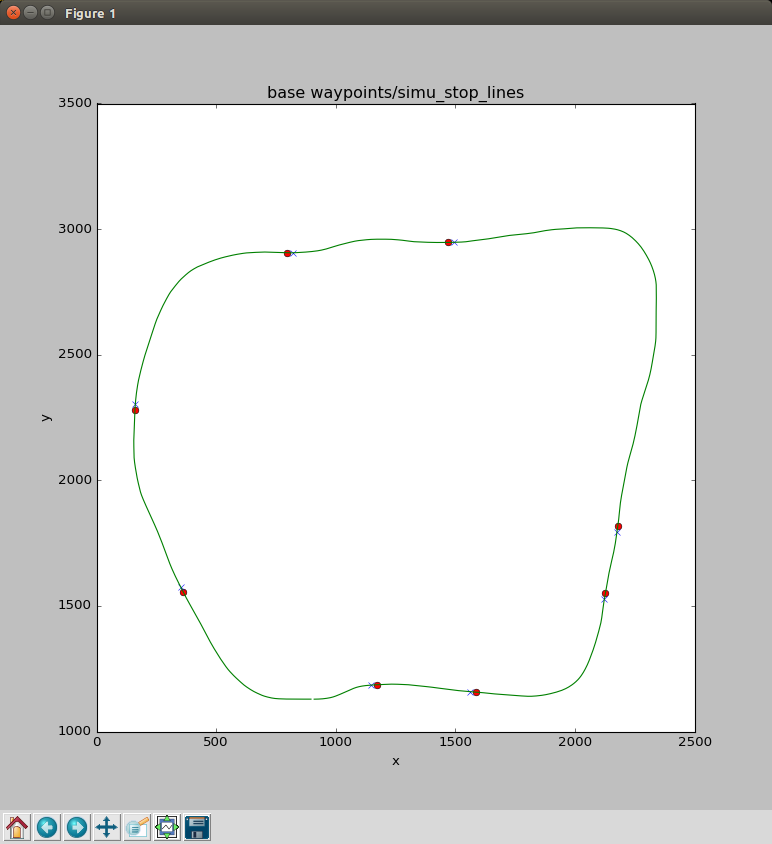
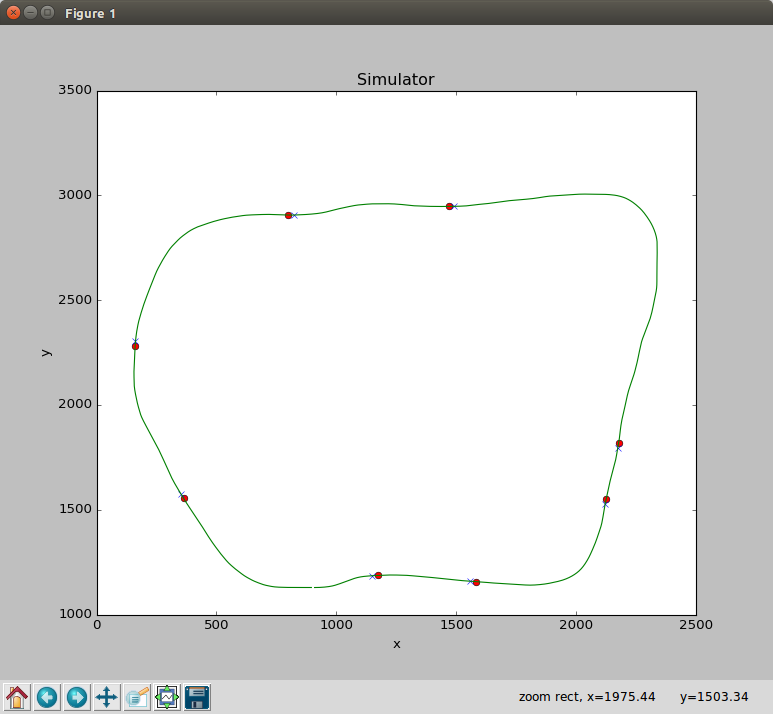
modified site waypoints show / enable roslog(DEBUG)

diff --git a/data/test_waypoints_show.py b/data/test_waypoints_show.py
@@ -37,7 +37,9 @@ simu_stop_lines=np.array([
     [351.84, 1574.65]])
 
 site_stop_lines=np.array([
-    [20.991, 22.837]])
+    #[20.991, 22.837]
+    [8.0, 16.2]
+    ])
     
 
 CSV_HEADER = ['x', 'y', 'z', 'yaw']
@@ -73,7 +75,7 @@ def ShowSimulatorDatas(path):
         tl_y = simu_traffic_lights[:,1]
         stop_x = simu_stop_lines[:,0]
         stop_y = simu_stop_lines[:,1]
-        plt.axes().set(xlabel='x', ylabel='y', title='base waypoints/simu_stop_lines')
+        plt.axes().set(xlabel='x', ylabel='y', title='Simulator')
         plt.plot(tl_x, tl_y, 'o', color='red')
         plt.plot(stop_x, stop_y, 'x', color='blue')
         plt.plot(waypointsX, waypointsY, color='green')
@@ -93,9 +95,9 @@ def ShowSiteDatas(path):
         #tl_y = simu_traffic_lights[:,1]
         stop_x = site_stop_lines[:,0]
         stop_y = site_stop_lines[:,1]
-        plt.axes().set(xlabel='x', ylabel='y', title='base waypoints/site_stop_lines')
+        plt.axes().set(xlabel='x', ylabel='y', title='Site')
         #plt.plot(tl_x, tl_y, 'o', color='red')
-        plt.plot(stop_x, stop_y, 'o', color='blue')
+        plt.plot(stop_x, stop_y, 'o', color='red')
         plt.plot(waypointsX, waypointsY, color='green')
         plt.show()
 

diff --git a/ros/src/tl_detector/light_classification/tl_classifier.py b/ros/src/tl_detector/light_classification/tl_classifier.py
@@ -16,7 +16,7 @@ GRAPH_FILE="ssd_mobilenet_v1_coco_11_06_2017/frozen_inference_graph.pb"
 
 class TLClassifier(object):
     def __init__(self):
-        #rospy.init_node('tl_classifier', log_level=rospy.DEBUG)
+        rospy.init_node('tl_classifier', log_level=rospy.DEBUG)
 
         self.traffic_light_list = []
         self.traffic_light_scores = []

diff --git a/ros/src/waypoint_updater/waypoint_updater.py b/ros/src/waypoint_updater/waypoint_updater.py
@@ -32,7 +32,7 @@ MAX_DECL = 0.5
 
 class WaypointUpdater(object):
     def __init__(self):
-        rospy.init_node('waypoint_updater', log_level=rospy.INFO)
+        rospy.init_node('waypoint_updater', log_level=rospy.DEBUG)
         rospy.loginfo("Welcome to waypoint_updater")
 
         # TODO: Add other member variables you need below

diff --git a/ros/src/tl_detector/tl_detector.py b/ros/src/tl_detector/tl_detector.py
@@ -41,7 +41,7 @@ def dice_coef_loss(y_true, y_pred):
 class TLDetector(object):
     def __init__(self):
 
-        rospy.init_node('tl_detector', log_level=rospy.INFO)
+        rospy.init_node('tl_detector', log_level=rospy.DEBUG)
         rospy.loginfo("Welcome to tl_detector")
 
         self.pose = None
